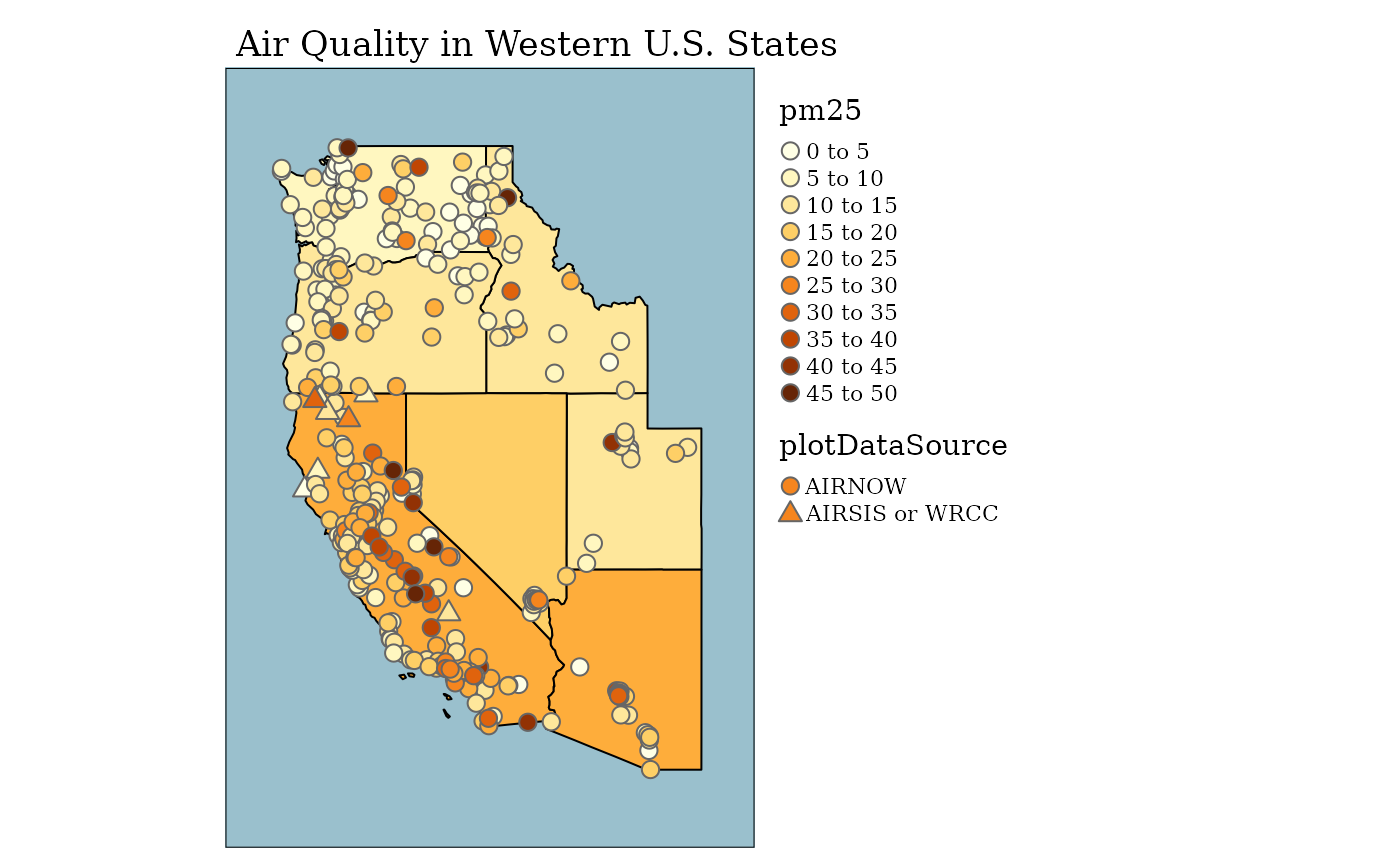
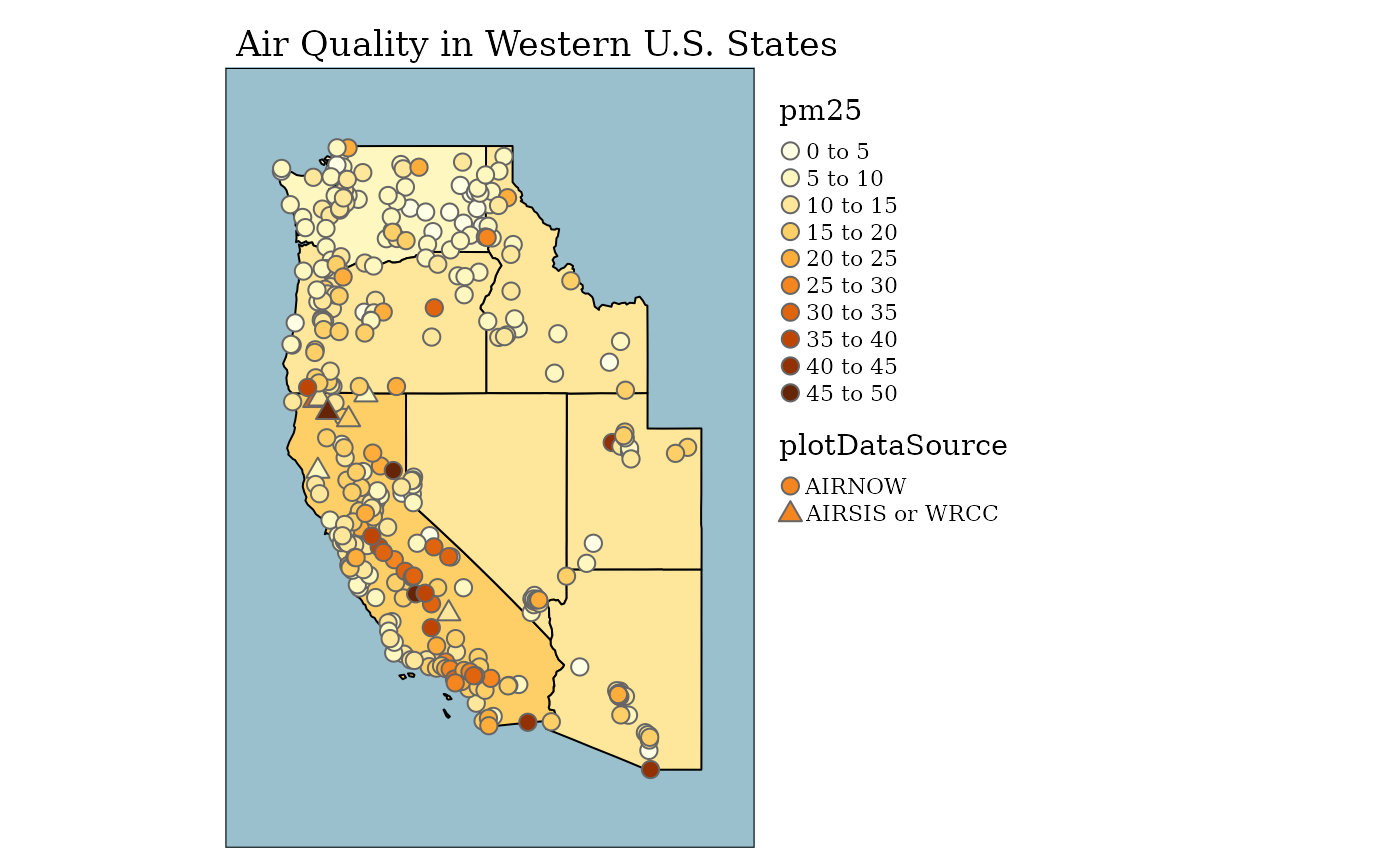
WIP: more progress on Opportunity Insights article

diff --git a/docs/articles/articles/Opportunity_Insights.html b/docs/articles/articles/Opportunity_Insights.html
@@ -121,37 +121,49 @@
 <p>All of the data we will use is easily obtainable from the Oportunity Insights <a href="https://github.com/OpportunityInsights/EconomicTracker">GitHub repository</a>. We can use <code><a href="https://rdrr.io/r/utils/read.table.html">read.csv()</a></code> to load data directly.</p>
 <div class="sourceCode" id="cb1"><pre class="downlit">
 <span class="co"># COVID data by US county</span>
-<span class="kw">URL</span> <span class="op">&lt;-</span> <span class="st">"https://raw.githubusercontent.com/OpportunityInsights/EconomicTracker/main/data/COVID%20-%20County%20-%20Daily.csv"</span>
-<span class="kw">countyCovid</span> <span class="op">&lt;-</span> <span class="fu"><a href="https://rdrr.io/r/utils/read.table.html">read.csv</a></span>(<span class="kw">URL</span>, stringsAsFactors = <span class="fl">FALSE</span>)
-<span class="fu"><a href="https://rdrr.io/r/base/names.html">names</a></span>(<span class="kw">countyCovid</span>)
+<span class="kw">URL1</span> <span class="op">&lt;-</span> <span class="st">"https://raw.githubusercontent.com/OpportunityInsights/EconomicTracker/main/data/COVID%20-%20County%20-%20Daily.csv"</span>
+<span class="kw">URL2</span> <span class="op">&lt;-</span> <span class="st">"https://raw.githubusercontent.com/OpportunityInsights/EconomicTracker/main/data/Zearn%20-%20County%20-%20Weekly.csv"</span>
+<span class="kw">countyCovid</span> <span class="op">&lt;-</span> <span class="kw">readr</span>::<span class="fu"><a href="https://readr.tidyverse.org/reference/read_delim.html">read_csv</a></span>(<span class="kw">URL1</span>, col_types = <span class="fu">cols</span>())
+<span class="kw">countyMath</span> <span class="op">&lt;-</span> <span class="kw">readr</span>::<span class="fu"><a href="https://readr.tidyverse.org/reference/read_delim.html">read_csv</a></span>(<span class="kw">URL2</span>, col_types = <span class="fu">cols</span>())
 </pre></div>
-<pre><code>##  [1] "year"            "month"           "day"             "countyfips"     
-##  [5] "case_count"      "death_count"     "case_rate"       "death_rate"     
-##  [9] "new_case_rate"   "new_death_rate"  "new_case_count"  "new_death_count"</code></pre>
-<div class="sourceCode" id="cb3"><pre class="downlit">
+<div class="sourceCode" id="cb2"><pre class="downlit">
 <span class="fu"><a href="https://rdrr.io/r/utils/head.html">head</a></span>(<span class="kw">countyCovid</span>)
 </pre></div>
-<pre><code>##   year month day countyfips case_count death_count case_rate death_rate
-## 1 2020     1  21       1001          0           0         0          0
-## 2 2020     1  21       1003          0           0         0          0
-## 3 2020     1  21       1005          0           0         0          0
-## 4 2020     1  21       1007          0           0         0          0
-## 5 2020     1  21       1009          0           0         0          0
-## 6 2020     1  21       1011          0           0         0          0
-##   new_case_rate new_death_rate new_case_count new_death_count
-## 1             .              .              .               .
-## 2             .              .              .               .
-## 3             .              .              .               .
-## 4             .              .              .               .
-## 5             .              .              .               .
-## 6             .              .              .               .</code></pre>
+<pre><code>## # A tibble: 6 x 12
+##    year month   day countyfips case_count death_count case_rate death_rate
+##   &lt;dbl&gt; &lt;dbl&gt; &lt;dbl&gt;      &lt;dbl&gt;      &lt;dbl&gt;       &lt;dbl&gt;     &lt;dbl&gt;      &lt;dbl&gt;
+## 1  2020     1    21       1001          0           0         0          0
+## 2  2020     1    21       1003          0           0         0          0
+## 3  2020     1    21       1005          0           0         0          0
+## 4  2020     1    21       1007          0           0         0          0
+## 5  2020     1    21       1009          0           0         0          0
+## 6  2020     1    21       1011          0           0         0          0
+## # … with 4 more variables: new_case_rate &lt;chr&gt;, new_death_rate &lt;chr&gt;,
+## #   new_case_count &lt;chr&gt;, new_death_count &lt;chr&gt;</code></pre>
+<div class="sourceCode" id="cb4"><pre class="downlit">
+<span class="fu"><a href="https://rdrr.io/r/utils/head.html">head</a></span>(<span class="kw">countyMath</span>)
+</pre></div>
+<pre><code>## # A tibble: 6 x 9
+##   countyfips  year month day_endofweek engagement badges break_engagement
+##        &lt;dbl&gt; &lt;dbl&gt; &lt;dbl&gt;         &lt;dbl&gt; &lt;chr&gt;      &lt;chr&gt;  &lt;chr&gt;           
+## 1       1003  2019     1            13 -.159      -.165  .               
+## 2       1003  2019     1            20 -.191      -.248  .               
+## 3       1003  2019     1            27 -.404      -.458  .               
+## 4       1003  2019     2             3 .388       .125   .               
+## 5       1003  2019     2            10 .35        .395   .               
+## 6       1003  2019     2            17 .354       .609   .               
+## # … with 2 more variables: break_badges &lt;chr&gt;, imputed_from_cz &lt;dbl&gt;</code></pre>
 </div>
 <div id="map-1-covid-cases-in-washington-counties" class="section level2">
 <h2 class="hasAnchor">
 <a href="#map-1-covid-cases-in-washington-counties" class="anchor"></a>Map 1: COVID Cases in Washington Counties</h2>
 <p>The first map we will recreate is the map of new cases in Washington state (by county). We define new cases to be a 7-day rolling average of confirmed cases of COVID-19 per 100k residents.</p>
+<p>This is the map displayed on Opportunity Insights’ economic tracker:</p>
 <p><img src="Opportunity_Insights_files/map1.PNG"></p>
-<div class="sourceCode" id="cb5"><pre class="downlit">
+<p>Using just the basic functionality <strong>MazamaSpatialPlots</strong>’s <code><a href="../../reference/countyMap.html">countyMap()</a></code> function, we can make a map that almost perfectly matches the original map:</p>
+<div class="sourceCode" id="cb6"><pre class="downlit">
+<span class="kw">mapDate</span> <span class="op">&lt;-</span> <span class="kw">lubridate</span>::<span class="fu"><a href="http://lubridate.tidyverse.org/reference/parse_date_time.html">parse_date_time</a></span>(<span class="st">"2021 02 09"</span>, <span class="st">"y m d"</span>, tz = <span class="st">"UTC"</span>)
+
 <span class="co"># column 'new_case_rate' is the confirmed covid cases per 100k residents, 7-day rolling average</span>
 <span class="kw">countyCovid_formatted</span> <span class="op">&lt;-</span> <span class="kw">countyCovid</span> <span class="op">%&gt;%</span>
   <span class="fu"><a href="https://dplyr.tidyverse.org/reference/mutate.html">mutate</a></span>(
@@ -159,7 +171,7 @@
     countyFIPS = <span class="kw">stringr</span>::<span class="fu"><a href="https://stringr.tidyverse.org/reference/str_pad.html">str_pad</a></span>(<span class="kw">countyfips</span>, width = <span class="fl">5</span>, pad = <span class="st">"0"</span>),
     stateCode = <span class="fu"><a href="https://rdrr.io/pkg/MazamaSpatialUtils/man/US_stateConversion.html">US_stateFIPSToCode</a></span>(<span class="fu"><a href="https://rdrr.io/r/base/substr.html">substr</a></span>(<span class="kw">countyFIPS</span>, <span class="fl">0</span>, <span class="fl">2</span>)),
     new_case_rate = <span class="fu"><a href="https://rdrr.io/r/base/numeric.html">as.numeric</a></span>(<span class="kw">new_case_rate</span>)) <span class="op">%&gt;%</span>
-  <span class="fu"><a href="https://dplyr.tidyverse.org/reference/filter.html">filter</a></span>(<span class="kw">date</span> <span class="op">==</span> <span class="kw">lubridate</span>::<span class="fu"><a href="http://lubridate.tidyverse.org/reference/now.html">today</a></span>() <span class="op">-</span> <span class="kw">lubridate</span>::<span class="fu"><a href="http://lubridate.tidyverse.org/reference/period.html">days</a></span>(<span class="fl">3</span>)) <span class="op">%&gt;%</span>
+  <span class="fu"><a href="https://dplyr.tidyverse.org/reference/filter.html">filter</a></span>(<span class="kw">date</span> <span class="op">==</span> <span class="kw">mapDate</span>) <span class="op">%&gt;%</span>
   <span class="fu"><a href="https://dplyr.tidyverse.org/reference/group_by.html">group_by</a></span>(<span class="kw">countyFIPS</span>) <span class="op">%&gt;%</span> 
   <span class="fu"><a href="https://dplyr.tidyverse.org/reference/mutate.html">mutate</a></span>(meanCaseRate = <span class="fu"><a href="https://rdrr.io/r/base/mean.html">mean</a></span>(<span class="kw">new_case_rate</span>, na.rm = <span class="fl">TRUE</span>)) <span class="op">%&gt;%</span>
   <span class="fu"><a href="https://dplyr.tidyverse.org/reference/select.html">select</a></span>(<span class="kw">countyFIPS</span>, <span class="kw">stateCode</span>, <span class="kw">meanCaseRate</span>)
@@ -168,12 +180,81 @@
   data = <span class="kw">countyCovid_formatted</span>,
   parameter = <span class="st">"meanCaseRate"</span>,
   stateCode = <span class="st">"WA"</span>,
-  breaks = <span class="fu"><a href="https://rdrr.io/r/base/seq.html">seq</a></span>(<span class="fl">0</span>, <span class="fl">200</span>, <span class="fl">10</span>),
+  breaks = <span class="fu"><a href="https://rdrr.io/r/base/seq.html">seq</a></span>(<span class="fl">0</span>, <span class="fl">200</span>, <span class="fl">40</span>),
   palette = <span class="st">"YlOrRd"</span>,
+  style = <span class="st">"cont"</span>, <span class="co"># continuous color scale</span>
+  legendOrientation = <span class="st">"horizontal"</span>,
   stateBorderColor = <span class="st">"white"</span>
 )
 </pre></div>
 <p><img src="Opportunity_Insights_files/figure-html/map1_basic-1.png" width="700"></p>
+<p>Now, the only difference between the map created with <code><a href="../../reference/countyMap.html">countyMap()</a></code> and the original is the position of the legend. We can add adjust this manually using functions provided by <strong>tmap</strong>.</p>
+<div class="sourceCode" id="cb7"><pre class="downlit">
+<span class="fu"><a href="../../reference/countyMap.html">countyMap</a></span>(
+  data = <span class="kw">countyCovid_formatted</span>,
+  parameter = <span class="st">"meanCaseRate"</span>,
+  stateCode = <span class="st">"WA"</span>,
+  breaks = <span class="fu"><a href="https://rdrr.io/r/base/seq.html">seq</a></span>(<span class="fl">0</span>, <span class="fl">200</span>, <span class="fl">40</span>),
+  palette = <span class="st">"YlOrRd"</span>,
+  style = <span class="st">"cont"</span>, 
+  legendOrientation = <span class="st">"horizontal"</span>,
+  stateBorderColor = <span class="st">"white"</span>
+) <span class="op">+</span> <span class="kw">tmap</span>::<span class="fu"><a href="https://rdrr.io/pkg/tmap/man/tm_layout.html">tm_layout</a></span>(
+    legend.position = <span class="fu"><a href="https://rdrr.io/r/base/c.html">c</a></span>(<span class="st">"center"</span>, <span class="st">"bottom"</span>),
+    legend.outside = <span class="fl">TRUE</span>,
+    legend.outside.position = <span class="st">"bottom"</span>
+)
+</pre></div>
+<p><img src="Opportunity_Insights_files/figure-html/map1_fancy-1.png" width="700"></p>
+</div>
+<div id="map-2-student-math-engagement-in-new-york-counties" class="section level2">
+<h2 class="hasAnchor">
+<a href="#map-2-student-math-engagement-in-new-york-counties" class="anchor"></a>Map 2: Student Math Engagement in New York Counties</h2>
+<p>The next map we will recreate is the map of change in student participation in Math in the state of New York (by county). This is the map displayed on Opportunity Insights’ economic tracker:</p>
+<p><img src="Opportunity_Insights_files/map2.PNG"></p>
+<p>Like before, we can use just the basic functionality <strong>MazamaSpatialPlots</strong>’s <code><a href="../../reference/countyMap.html">countyMap()</a></code> function to make a map that almost perfectly matches the original map:</p>
+<div class="sourceCode" id="cb8"><pre class="downlit">
+<span class="kw">mapDate</span> <span class="op">&lt;-</span> <span class="kw">lubridate</span>::<span class="fu"><a href="http://lubridate.tidyverse.org/reference/parse_date_time.html">parse_date_time</a></span>(<span class="st">"2021 02 12"</span>, <span class="st">"y m d"</span>, tz = <span class="st">"UTC"</span>)
+
+<span class="kw">countyMath_formatted</span> <span class="op">&lt;-</span> <span class="kw">countyMath</span> <span class="op">%&gt;%</span>
+  <span class="fu"><a href="https://dplyr.tidyverse.org/reference/mutate.html">mutate</a></span>(
+    date = <span class="kw">lubridate</span>::<span class="fu"><a href="http://lubridate.tidyverse.org/reference/parse_date_time.html">parse_date_time</a></span>(<span class="fu"><a href="https://rdrr.io/r/base/paste.html">paste</a></span>(<span class="kw">year</span>, <span class="kw">month</span>, <span class="kw">day_endofweek</span>), <span class="st">"y m d"</span>, tz = <span class="st">"UTC"</span>),
+    countyFIPS = <span class="kw">stringr</span>::<span class="fu"><a href="https://stringr.tidyverse.org/reference/str_pad.html">str_pad</a></span>(<span class="kw">countyfips</span>, width = <span class="fl">5</span>, pad = <span class="st">"0"</span>),
+    stateCode = <span class="fu"><a href="https://rdrr.io/pkg/MazamaSpatialUtils/man/US_stateConversion.html">US_stateFIPSToCode</a></span>(<span class="fu"><a href="https://rdrr.io/r/base/substr.html">substr</a></span>(<span class="kw">countyFIPS</span>, <span class="fl">0</span>, <span class="fl">2</span>)),
+    engagement = <span class="fu"><a href="https://rdrr.io/r/base/numeric.html">as.numeric</a></span>(<span class="kw">engagement</span>) <span class="op">*</span> <span class="fl">100.0</span>) <span class="op">%&gt;%</span>
+  <span class="kw">dplyr</span>::<span class="fu"><a href="https://dplyr.tidyverse.org/reference/filter.html">filter</a></span>(<span class="kw">date</span> <span class="op">==</span> <span class="fu"><a href="https://rdrr.io/r/base/Extremes.html">max</a></span>(<span class="kw">date</span>))
+
+<span class="fu"><a href="../../reference/countyMap.html">countyMap</a></span>(
+  data = <span class="kw">countyMath_formatted</span>,
+  parameter = <span class="st">"engagement"</span>,
+  stateCode = <span class="st">"NY"</span>,
+  breaks = <span class="fu"><a href="https://rdrr.io/r/base/c.html">c</a></span>(<span class="fu"><a href="https://rdrr.io/r/base/seq.html">seq</a></span>(<span class="op">-</span><span class="fl">100</span>, <span class="fl">0</span>, <span class="fl">20</span>), <span class="fu"><a href="https://rdrr.io/r/base/seq.html">seq</a></span>(<span class="fl">40</span>, <span class="fl">200</span>, <span class="fl">40</span>)),
+  palette = <span class="st">"Spectral"</span>,
+  style = <span class="st">"cont"</span>,
+  legendOrientation = <span class="st">"horizontal"</span>,
+  stateBorderColor = <span class="st">"white"</span>
+)
+</pre></div>
+<p><img src="Opportunity_Insights_files/figure-html/map2_basic-1.png" width="700"></p>
+<p>Similarly to the previous example, we can adjust the position of the map manually by using <strong>tmap</strong>. We can also add the percent (%) symbol at the end of each label in the legend.</p>
+<div class="sourceCode" id="cb9"><pre class="downlit">
+<span class="fu"><a href="../../reference/countyMap.html">countyMap</a></span>(
+  data = <span class="kw">countyMath_formatted</span>,
+  parameter = <span class="st">"engagement"</span>,
+  stateCode = <span class="st">"NY"</span>,
+  breaks = <span class="fu"><a href="https://rdrr.io/r/base/c.html">c</a></span>(<span class="fu"><a href="https://rdrr.io/r/base/seq.html">seq</a></span>(<span class="op">-</span><span class="fl">100</span>, <span class="fl">0</span>, <span class="fl">20</span>), <span class="fu"><a href="https://rdrr.io/r/base/seq.html">seq</a></span>(<span class="fl">40</span>, <span class="fl">200</span>, <span class="fl">40</span>)),
+  palette = <span class="st">"Spectral"</span>,
+  style = <span class="st">"cont"</span>,
+  legendOrientation = <span class="st">"horizontal"</span>,
+  stateBorderColor = <span class="st">"white"</span>
+) <span class="op">+</span> <span class="kw">tmap</span>::<span class="fu"><a href="https://rdrr.io/pkg/tmap/man/tm_layout.html">tm_layout</a></span>(
+    legend.position = <span class="fu"><a href="https://rdrr.io/r/base/c.html">c</a></span>(<span class="st">"center"</span>, <span class="st">"bottom"</span>),
+    legend.outside = <span class="fl">TRUE</span>,
+    legend.outside.position = <span class="st">"bottom"</span>,
+    legend.format = <span class="fu"><a href="https://rdrr.io/r/base/list.html">list</a></span>(fun = <span class="fu">function</span>(<span class="kw">x</span>) <span class="fu"><a href="https://rdrr.io/r/base/paste.html">paste0</a></span>(<span class="kw">x</span>, <span class="st">"%"</span>))
+)
+</pre></div>
+<p><img src="Opportunity_Insights_files/figure-html/map2_fancy-1.png" width="700"></p>
 </div>
   </div>
 

diff --git a/docs/reference/countyMap.html b/docs/reference/countyMap.html
@@ -156,6 +156,8 @@ county level. Input consists of a dataframe with <code>countyFIPS</code> identif
   county_SPDF = <span class='st'>"USCensusCounties_02"</span>,
   palette = <span class='st'>"YlOrBr"</span>,
   breaks = <span class='kw'>NULL</span>,
+  style = <span class='fu'><a href='https://rdrr.io/r/base/ifelse.html'>ifelse</a></span>(<span class='fu'><a href='https://rdrr.io/r/base/NULL.html'>is.null</a></span>(<span class='kw'>breaks</span>), <span class='st'>"pretty"</span>, <span class='st'>"fixed"</span>),
+  legendOrientation = <span class='st'>"vertical"</span>,
   conusOnly = <span class='fl'>TRUE</span>,
   stateCode = <span class='kw'>NULL</span>,
   projection = <span class='kw'>NULL</span>,
@@ -197,6 +199,14 @@ column named <code>stateCode</code> if either <code>conusOnly = TRUE</code> or t
     <tr>
       <th>breaks</th>
       <td><p>Numeric vector of break points.</p></td>
+    </tr>
+    <tr>
+      <th>style</th>
+      <td><p>Method to process the color scale</p></td>
+    </tr>
+    <tr>
+      <th>legendOrientation</th>
+      <td><p>Orientation of the legend. Either 'vertical' or 'horizontal'</p></td>
     </tr>
     <tr>
       <th>conusOnly</th>
